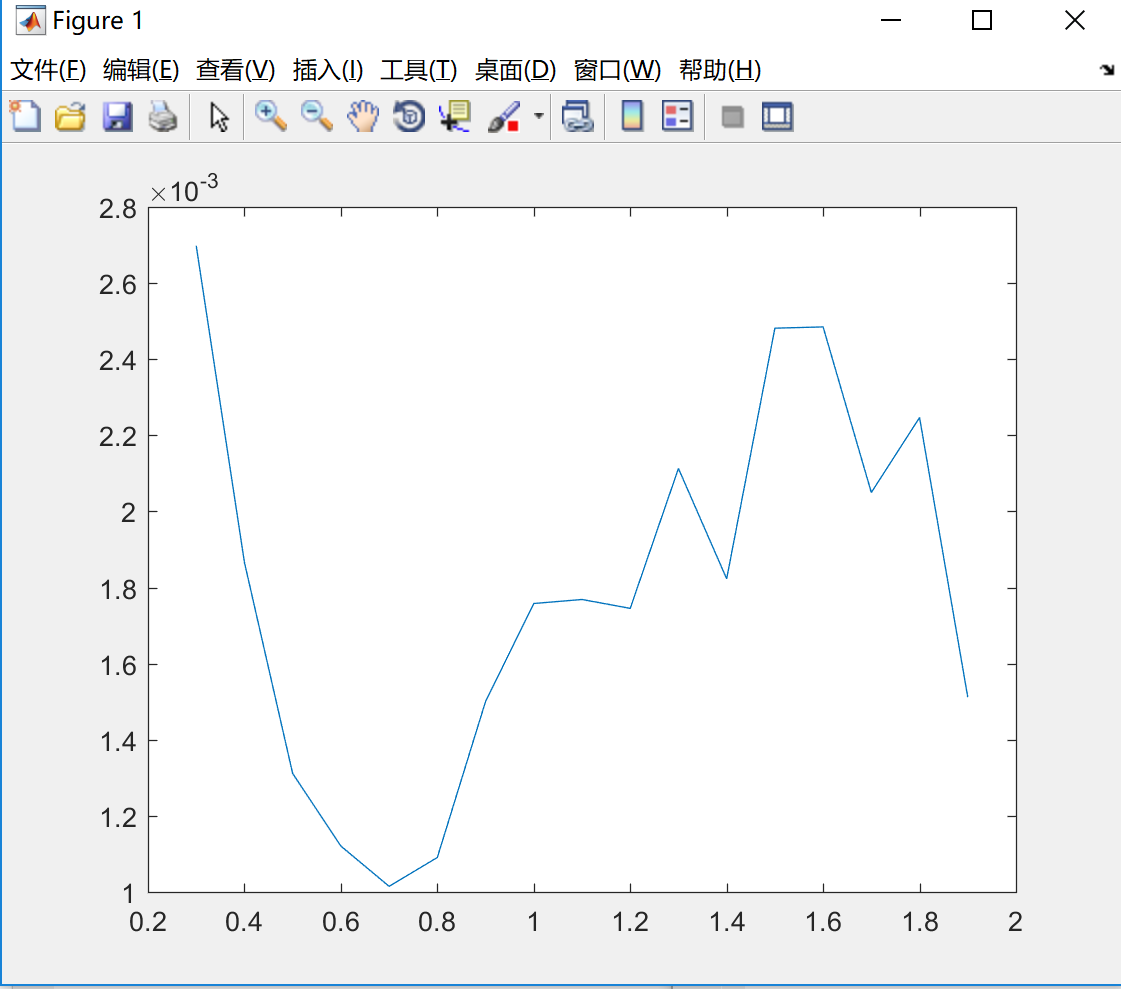
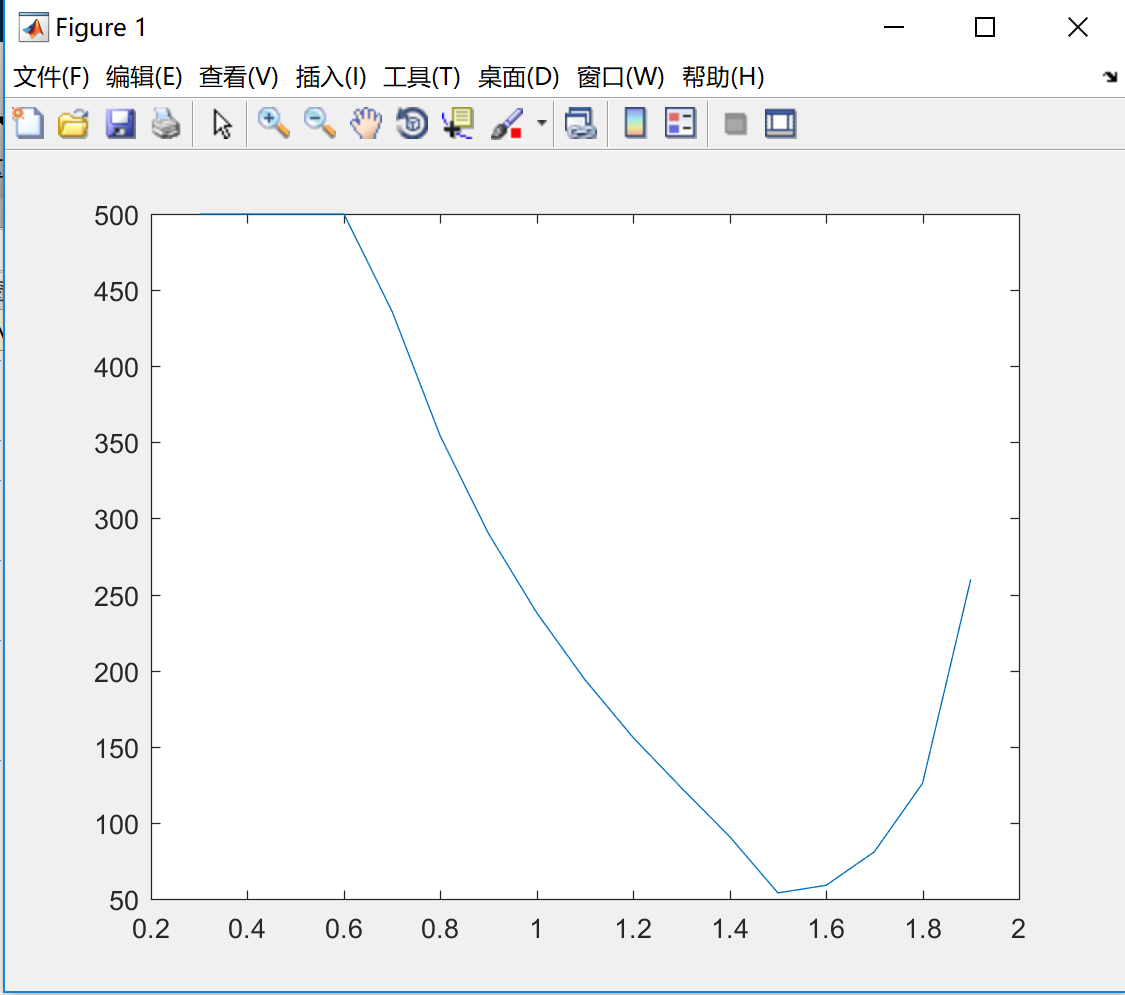
add omega test

diff --git a/test_w.m b/test_w.m
@@ -9,133 +9,115 @@
 
 w = [];
 time = [];
-%{
-for i = 1:100
-    times3(i) = i;
-    xtrue = linsolve(A,b);
-    tic
-    [x,t] = SOR(A,b,1.3,i);
-    toc
-end
-%}
+
 
 % 0.3
-tic
-SOR(A,b,0.3,15);
-toc
+[x,t] = SOR(A,b,0.3,500);
 w(1) = 0.3;
-time(1) = toc;
+time(1) = t;
+disp(t);
 
 % 0.4
-tic
-SOR(A,b,0.4,15);
-toc
+[x,t] = SOR(A,b,0.4,500);
 w(2) = 0.4;
-time(2) = toc;
+time(2) = t;
+disp(t);
 
 % 0.5
-tic
-SOR(A,b,0.5,15);
-toc
+[x,t] = SOR(A,b,0.5,500);
 w(3) = 0.5;
-time(3) = toc;
+time(3) = t;
+disp(t);
 
 % 0.6
-tic
-SOR(A,b,0.6,15);
-toc
+[x,t] = SOR(A,b,0.6,500);
 w(4) = 0.6;
-time(4) = toc;
+time(4) = t;
+disp(t);
 
 % 0.7
-tic
-SOR(A,b,0.7,15);
-toc
+[x,t] = SOR(A,b,0.7,500);
 w(5) = 0.7;
-time(5) = toc;
+time(5) = t;
+disp(t);
 
 % 0.8
-tic
-SOR(A,b,0.8,15);
-toc
+[x,t] = SOR(A,b,0.8,500);
 w(6) = 0.8;
-time(6) = toc;
+time(6) = t;
+disp(t);
 
 % 0.9
-tic
-SOR(A,b,0.9,15);
-toc
+[x,t] = SOR(A,b,0.9,500);
 w(7) = 0.9;
-time(7) = toc;
+time(7) = t;
+disp(t);
 
 % 1.0
-tic
-SOR(A,b,1.0,15);
-toc
+[x,t] = SOR(A,b,1.0,500);
 w(8) = 1.0;
-time(8) = toc;
+time(8) = t;
+disp(t);
 
 % 1.1
-tic
-SOR(A,b,1.1,15);
-toc
+[x,t] = SOR(A,b,1.1,500);
 w(9) = 1.1;
-time(9) = toc;
+time(9) = t;
+disp(t);
 
 % 1.2
-tic
-SOR(A,b,1.2,15);
-toc
+[x,t] = SOR(A,b,1.2,500);
 w(10) = 1.2;
-time(10) = toc;
+time(10) = t;
+disp(t);
 
 % 1.3
-tic
-SOR(A,b,1.3,15);
-toc
+[x,t] = SOR(A,b,1.3,500);
 w(11) = 1.3;
-time(11) = toc;
+time(11) = t;
+disp(t);
 
 % 1.4
-tic
-SOR(A,b,1.4,15);
-toc
+[x,t] = SOR(A,b,1.4,500);
 w(12) = 1.4;
-time(12) = toc;
+time(12) = t;
+disp(t);
 
 % 1.5
-tic
-SOR(A,b,1.5,15);
-toc
+[x,t] = SOR(A,b,1.5,500);
 w(13) = 1.5;
-time(13) = toc;
+time(13) = t;
+disp(t);
 
 % 1.6
-tic
-SOR(A,b,1.6,15);
-toc
+[x,t] = SOR(A,b,1.6,500);
 w(14) = 1.6;
-time(14) = toc;
+time(14) = t;
+disp(t);
 
 % 1.7
-tic
-SOR(A,b,1.7,15);
-toc
+[x,t] = SOR(A,b,1.7,500);
 w(15) = 1.7;
-time(15) = toc;
+time(15) = t;
+disp(t);
 
 % 1.8 
-tic
-SOR(A,b,1.8,15);
-toc
+[x,t] = SOR(A,b,1.8,500);
 w(16) = 1.8;
-time(16) = toc;
+time(16) = t;
+disp(t);
 
 % 1.9
-tic
-SOR(A,b,1.9,15);
-toc
+[x,t] = SOR(A,b,1.9,500);
 w(17) = 1.9;
-time(17) = toc;
+time(17) = t;
+disp(t);
 
 plot(w,time);
+
+
+%{
+    xtrue = linsolve(A,b);
+    [x,t] = SOR(A,b,1.3,500);
+    disp(t);
+%}

diff --git a/SOR.m b/SOR.m
@@ -1,6 +1,6 @@
-function[xn]=SOR(A,b,w,max)
+function[xn,times]=SOR(A,b,w,max)
 n=size(A,1);
-eps = 0.000001;
+eps = 0.00001;
 if nargin == 3
     max = 200;
 end
